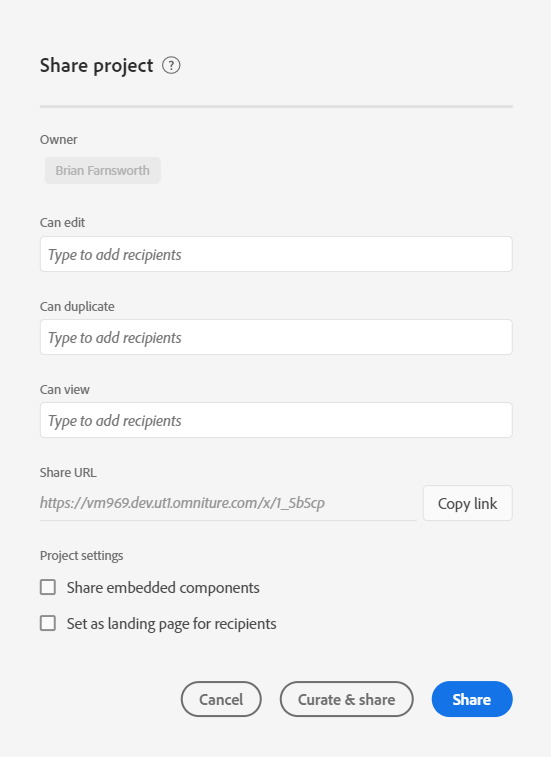
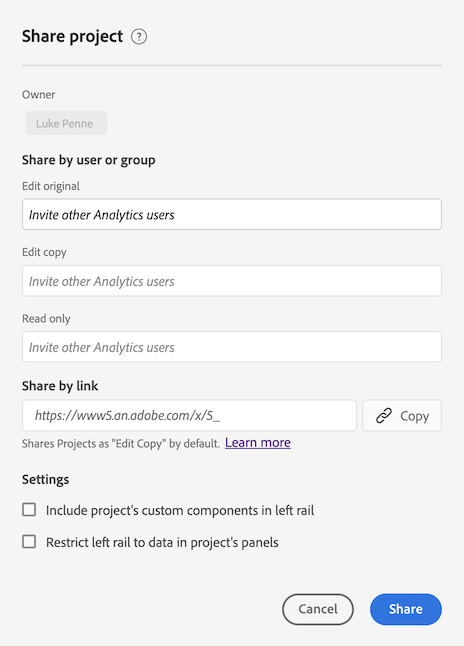
Updated content to remove "Get project link" references

diff --git a/help/analysis-workspace/curate-share/share-projects.md b/help/analysis-workspace/curate-share/share-projects.md
@@ -85,16 +85,15 @@ When sharing a link as described in this section, consider the following:
 
 * Recipients who use the link are required to log in to Customer Journey Analytics before gaining access to the project. 
 
-* If a recipient is not assigned a role and receives a [link](/help/analysis-workspace/curate-share/shareable-links.md) to the project (**[!UICONTROL Share] > [!UICONTROL Get project link]**), they are given a role by default. Admins receive **[!UICONTROL Can edit]** and Non-admins receive **[!UICONTROL Can duplicate]**.
+* If a recipient is not assigned a role and receives a [link](/help/analysis-workspace/curate-share/shareable-links.md) to the project (**[!UICONTROL Share] > [!UICONTROL Get project link]**), they are given a role by default. Admins receive **[!UICONTROL Can edit]** and non-admins receive **[!UICONTROL Can duplicate]**.
 
 To share the project link with users in your organization:
 
-1. Click **[!UICONTROL Share]** > **[!UICONTROL Share with Workspace users]**.
-   If there are unsaved changes, you are prompted to save your project first. 
+1. Save the project. If there are unsaved changes, you are prompted to save your project before sharing a link.
+
+1. Select **[!UICONTROL Share]** > **[!UICONTROL Share with Workspace users]**, then select **[!UICONTROL Copy]** next to the **[!UICONTROL Share by link]** field.  
 
    ![](assets/share-proj-modal.png)
-
-1. Click **[!UICONTROL Copy link]** next to the **[!UICONTROL Share URL field]**. 
 
 1. Share the link with users in your organization. For example, you can paste it into an email, onto an internal web site, and so forth. 
 
@@ -183,4 +182,4 @@ Here is a video on the topic:
 |What happens if two editors save a project at the same time?|Changes are not merged and the last saved project version will be kept. Analysis Workspace does not currently support live collaboration.|
 |As an admin, what project experience will I see?|Admins placed in a **[!UICONTROL Can duplicate]** or **[!UICONTROL Can view]** role will receive those limited experiences when they open a project. If desired, an Admin can increase their role to **[!UICONTROL Can edit]** at anytime through **[!UICONTROL Components] > [!UICONTROL Projects]**. |
 |What happens if a recipient is placed in one role as an individual and another role as a member of a group?|If a recipient is placed in multiple roles, they will always receive the higher experience. For example, if a recipient is given the **[!UICONTROL Can edit]** role as an individual and the **[!UICONTROL Can view]** role as a member of a group, they will receive a **[!UICONTROL Can edit]** project experience.|
-|What experience does a recipient get if they open a project link?|Recipients receive the role you placed them in the share modal. If a recipient is not assigned a role and receives a link to the project (**[!UICONTROL Share] > [!UICONTROL Get project link]**), they will be placed into a role by default. Admins receive **[!UICONTROL Can edit]** and Non-admins receive **[!UICONTROL Can duplicate]**.|
+|What experience does a recipient get if they open a project link?|Recipients receive the role you placed them in the share modal. If a recipient is not assigned a role and receives a link to the project (**[!UICONTROL Share]** > **[!UICONTROL Share with Workspace users]**, then select **[!UICONTROL Copy]** next to the **[!UICONTROL Share by link]** field), they will be placed into a role by default. Admins receive **[!UICONTROL Can edit]** and Non-admins receive **[!UICONTROL Can duplicate]**.|

diff --git a/help/analysis-workspace/curate-share/send-schedule-files.md b/help/analysis-workspace/curate-share/send-schedule-files.md
@@ -8,10 +8,14 @@ exl-id: d7f92e59-18e9-43cd-8121-3c970434aaee
 
 You can curate, share and schedule PDF/CSV projects to recipients in your organization within the Workspace **Share menu**.
 
-| Menu option | Description |
-| --- | --- |
-| [!UICONTROL Share Project] | Make a project available to other Analysis Workspace users in your organization. [Learn more](https://experienceleague.adobe.com/docs/analytics/analyze/analysis-workspace/curate-share/share-projects.html) |
-| [!UICONTROL Get Project Link] | Create a shareable  link for quick access to a project. Users will be required to log in. [Learn more](https://experienceleague.adobe.com/docs/analytics/analyze/analysis-workspace/curate-share/shareable-links.html) |
-| [!UICONTROL Send File now] | Send a project as a CSV or PDF immediately to specified recipients. |
-| [!UICONTROL Send File on Schedule] | Send a project as a CSV or PDF on a schedule to specified recipients. [Learn more](https://experienceleague.adobe.com/docs/analytics/analyze/analysis-workspace/curate-share/t-schedule-report.html) |
-| [!UICONTROL Curate Project Data] | Limit the components (dimensions, metrics, filters, date ranges) available in a project. [Learn more](https://experienceleague.adobe.com/docs/analytics/analyze/analysis-workspace/curate-share/curate.html) |
+>[!AVAILABILITY]
+>
+>Some functionality described in this article is in the Limited Testing phase of release and might not be available yet in your environment. This note will be removed when the functionality is generally available. For information about the Analytics release process, see [Adobe Analytics feature releases](/help/release-notes/releases.md).
+
+|Menu option|Description|
+|---|---|
+|Share with Workspace users|Make a project available to other Analysis Workspace users in your organization. Share with specific users, or create a shareable link for quick access to a project. Users are required to log in. [Learn more](/help/analysis-workspace/curate-share/share-projects.md)|
+|Share with anyone|Grant read-only access to Analysis Workspace projects to people who don't have access to Adobe Analytics. [Learn more](/help/analysis-workspace/curate-share/share-projects.md)|
+|Export file|Send a project as a CSV or PDF immediately to specified recipients. [Learn more](/help/analysis-workspace/curate-share/t-schedule-report.md)|
+|Schedule file export|Send a project as a CSV or PDF on a schedule to specified recipients. [Learn more](/help/analysis-workspace/curate-share/t-schedule-report.md)|
+|Curate project data|Limit the components (dimensions, metrics, segments, date ranges) available in a project. [Learn more](/help/analysis-workspace/curate-share/curate.md)|

diff --git a/help/analysis-workspace/curate-share/shareable-links.md b/help/analysis-workspace/curate-share/shareable-links.md
@@ -8,11 +8,11 @@ exl-id: 6cfb5161-08e1-4583-ae79-4600b5531929
 
 Analysis Workspace offers many ways to share a project to your users, including the ability to get a link to a project or a specific part of a project. Some link types require the recipient to log in to Adobe Analytics before accessing the project, while others do not. 
 
-## Get project link {#project-link} 
+## Get a project link to share with other Workspace users {#project-link} 
 
-To share a link to the full project, go to **[!UICONTROL Share > Get project link]**. If the recipient of the link has not been assigned a [project role](https://experienceleague.adobe.com/docs/analytics/analyze/analysis-workspace/curate-share/share-projects.html), Admins receive **[!UICONTROL Can edit]** and Non-admins receive **[!UICONTROL Can duplicate]** experiences. 
+To share a link to a project, go to the project you want to share, then select go to [!UICONTROL **Share**] > [!UICONTROL **Get project link**] (or **Share**] > [!UICONTROL **Share with Workspace users**] > [!UICONTROL **Share by link**). Users you share the link with are required to log in. 
 
-![](assets/get-project-link.png)
+If the recipient of the link has not been assigned a [project role](https://experienceleague.adobe.com/docs/analytics/analyze/analysis-workspace/curate-share/share-projects.html), admins receive **[!UICONTROL Can edit]** and non-admins receive **[!UICONTROL Can duplicate]** experiences.
 
 ## Get a read-only link to share with anyone
 

diff --git a/help/analysis-workspace/curate-share/t-schedule-report.md b/help/analysis-workspace/curate-share/t-schedule-report.md
@@ -14,7 +14,7 @@ From the Workspace **[!UICONTROL Share]** menu, you can send Analysis Workspace 
 
 To send a file immediately to recipients via email:
 
-1. Click **[!UICONTROL Share] > [!UICONTROL Send File Now]**.
+1. Click **[!UICONTROL Share] > [!UICONTROL Export file]**.
 1. Specify the file type (CSV or PDF).
 1. (Optional) Add a description that will be included in the email to explain the file being received. 
 1. Add recipients or groups. Email addresses can also be entered. 
@@ -28,7 +28,7 @@ To send a file immediately to recipients via email:
 
 To send a file on a recurring schedule to recipients via email:
 
-1. Click **[!UICONTROL Share] > [!UICONTROL Send File on Schedule]**.
+1. Click **[!UICONTROL Share] > [!UICONTROL Schedule file export]**.
 1. Specify the file type (CSV or PDF).
 1. (Optional) Add a description that will be included in the email to explain the file being received. 
 1. Add recipients or groups. Email addresses can also be entered. 
